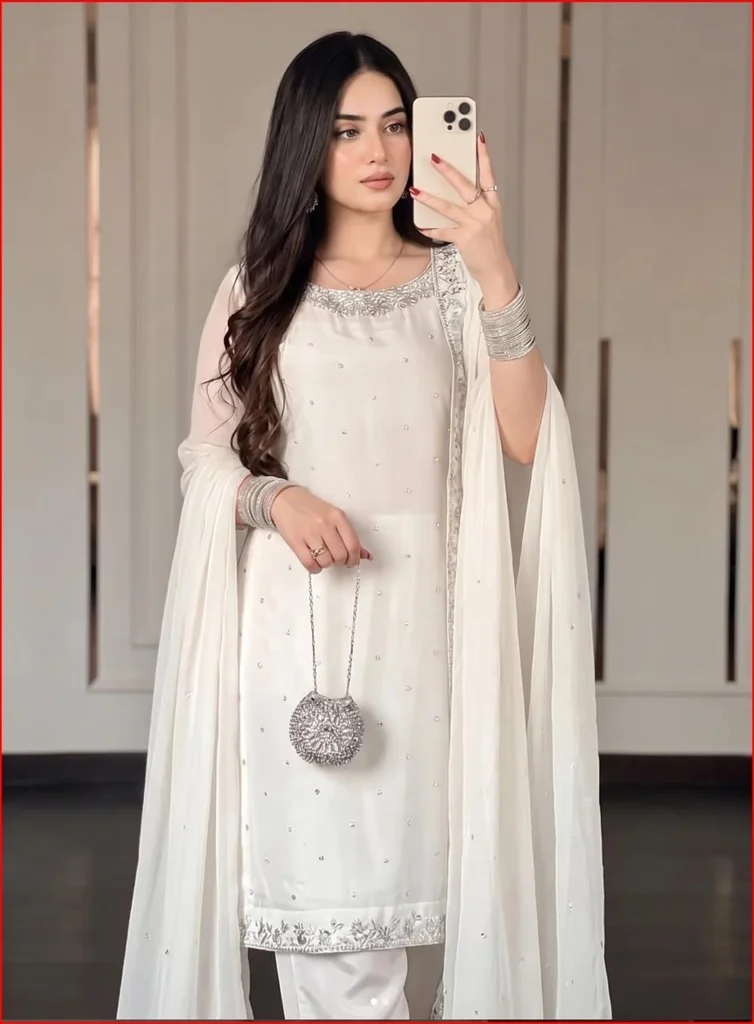
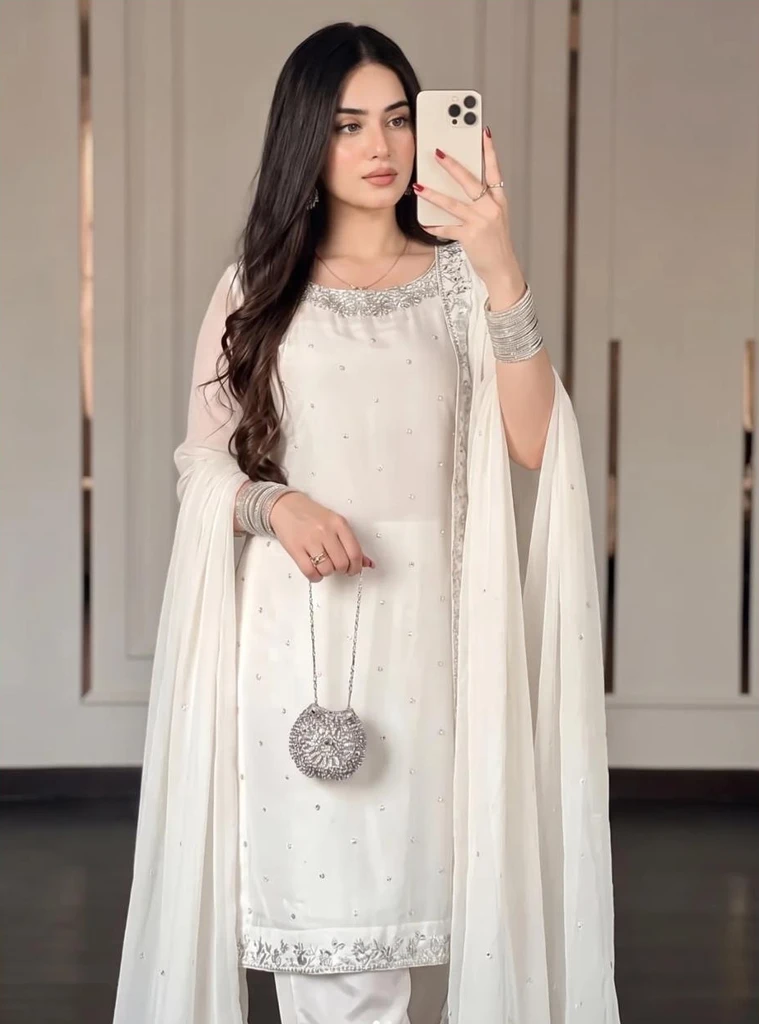
changes

Changed region(s): [[0.0, 0.0, 1.0, 1.0], [0.2135, 0.4375, 0.2745, 0.625]]

diff --git a/src/app/page.tsx b/src/app/page.tsx
@@ -54,8 +54,15 @@ export default function HomePage() {
     };
   }, []);
 
-  // Filter hero products from real database
-  const heroProducts = products.filter(p => p.images && p.images.length > 0).slice(0, 4);
+  // Flagship editorial hero products specifically tailored for the full-width luxury banner
+  const preferredHeroSlugs = ['heena', 'elva', 'senroa-white', 'moon-light'];
+  const preferredHeroes = preferredHeroSlugs
+    .map(slug => products.find(p => p.slug === slug))
+    .filter((p): p is Product => !!p && !!p.images?.length);
+
+  const heroProducts = preferredHeroes.length >= 3 
+    ? preferredHeroes 
+    : products.filter(p => p.images && p.images.length > 0).slice(0, 4);
 
   // Auto-advance slides if hero products exist
   useEffect(() => {
